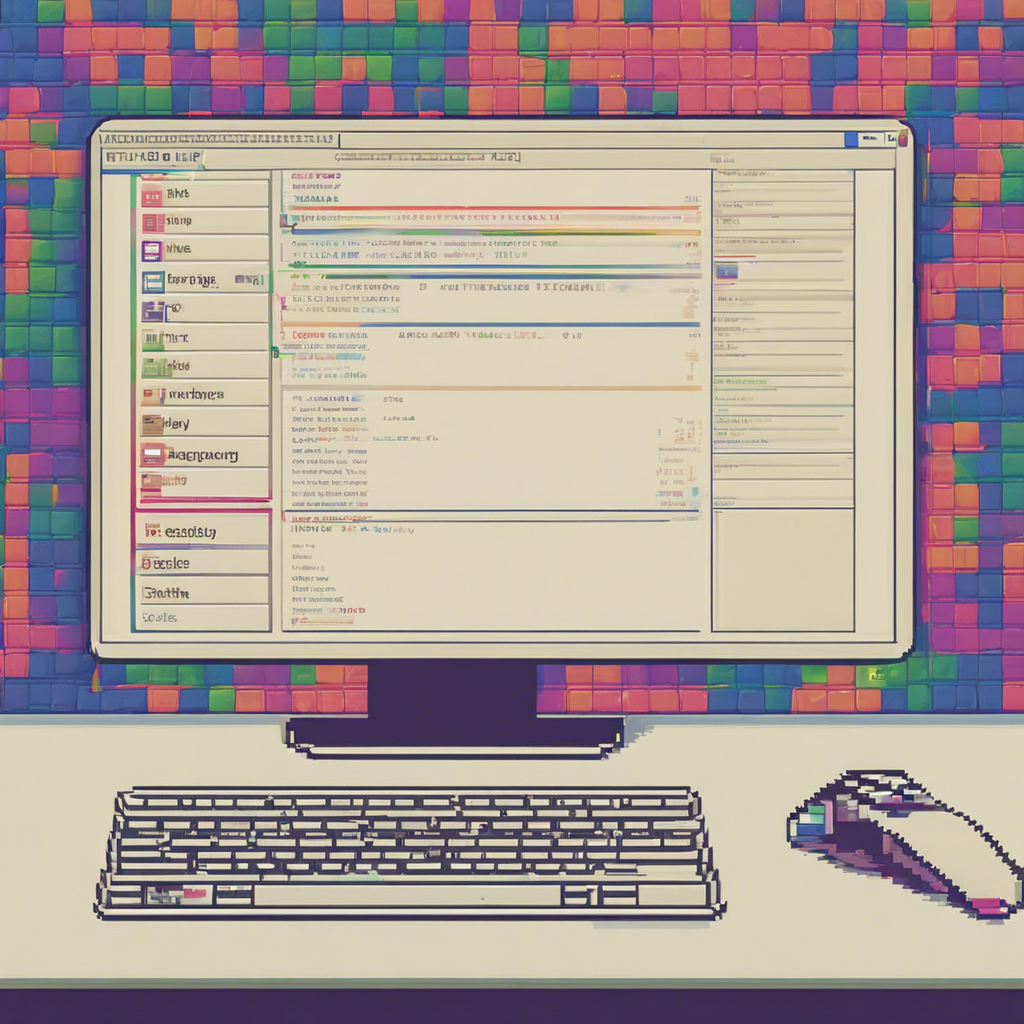
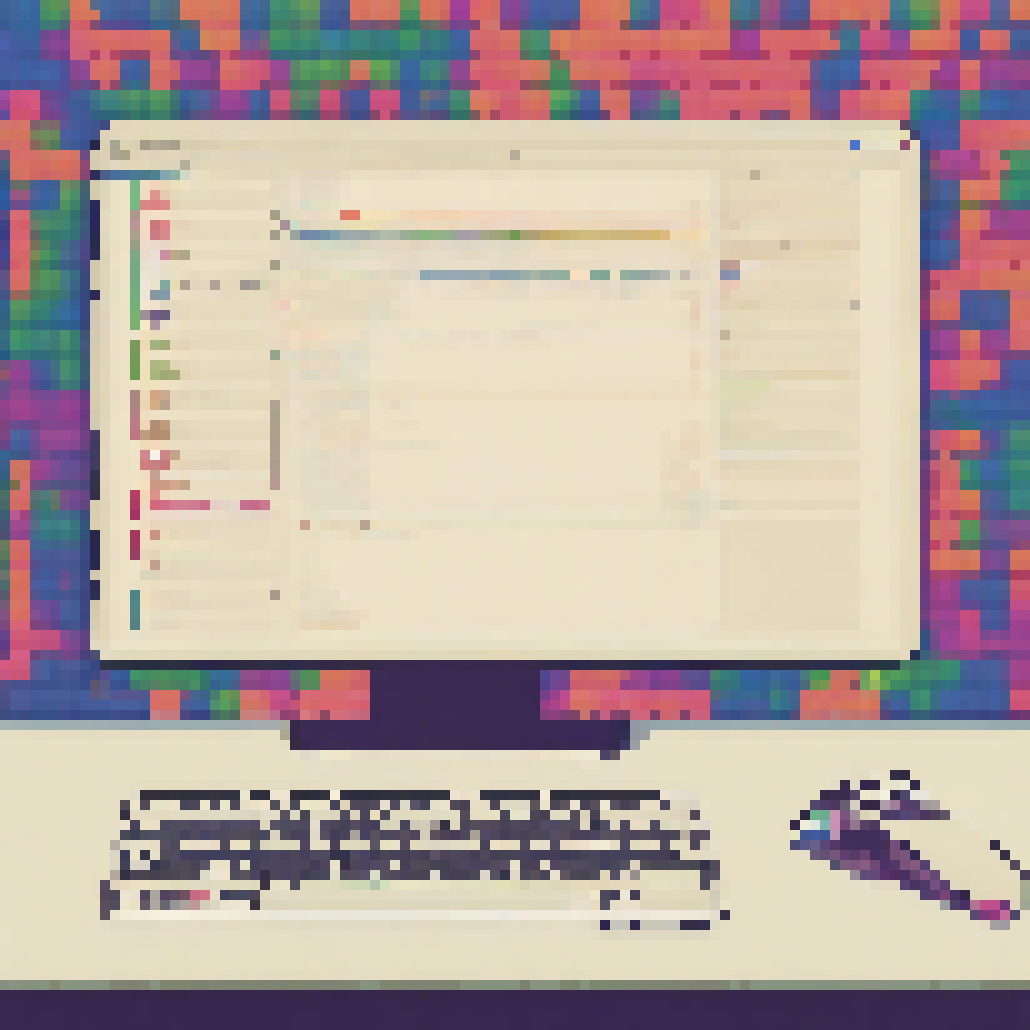
update picture

diff --git a/index.html b/index.html
@@ -129,7 +129,7 @@
             </a>
           </div>
           <div class="project-card">
-            <img src="./assets/images/trajectory_prediction_project.jpg" class="project-image">
+            <img src="./assets/images/trajectory_prediction_project.png" class="project-image">
             <div class="project-card-text-container">
               <div class="subheader-text project-title">Trajectory Prediction</div>
               <div class="body-text project-card-text">Elit pellentesque habitant morbi tristique senectus et netus et. Elementum tempus egestas sed sed risus pretium quam. Nibh ipsum consequat nisl vel pretium</div>
@@ -206,7 +206,7 @@
             </a>
           </div>
           <div class="project-card">
-            <img src="./assets/images/IMAGE_NAME" class="project-image">
+            <img src="./assets/images/acoustic_messanger.png" class="project-image">
             <div class="project-card-text-container">
               <div class="subheader-text project-title">Acoustic Messenger</div>
               <div class="body-text project-card-text">SMALL_PROJECT_DESCRIPTION</div>
@@ -217,7 +217,7 @@
             </a>
           </div>
           <div class="project-card">
-            <img src="./assets/images/IMAGE_NAME" class="project-image">
+            <img src="./assets/images/network_security.png" class="project-image">
             <div class="project-card-text-container">
               <div class="subheader-text project-title">Network Security</div>
               <div class="body-text project-card-text">SMALL_PROJECT_DESCRIPTION</div>
@@ -228,7 +228,7 @@
             </a>
           </div>
           <div class="project-card">
-            <img src="./assets/images/IMAGE_NAME" class="project-image">
+            <img src="./assets/images/Convolutional Coding and the Viterbi Algorithm.png" class="project-image">
             <div class="project-card-text-container">
               <div class="subheader-text project-title">Convolutional Coding and the Viterbi Algorithm</div>
               <div class="body-text project-card-text">SMALL_PROJECT_DESCRIPTION</div>
@@ -239,7 +239,7 @@
             </a>
           </div>
           <div class="project-card">
-            <img src="./assets/images/IMAGE_NAME" class="project-image">
+            <img src="./assets/images/Acoustic Communication System.png" class="project-image">
             <div class="project-card-text-container">
               <div class="subheader-text project-title">Acoustic Communication System</div>
               <div class="body-text project-card-text">SMALL_PROJECT_DESCRIPTION</div>
@@ -250,7 +250,7 @@
             </a>
           </div>
           <div class="project-card">
-            <img src="./assets/images/IMAGE_NAME" class="project-image">
+            <img src="./assets/images/Adaptive Noise Cancellation.png" class="project-image">
             <div class="project-card-text-container">
               <div class="subheader-text project-title"> Adaptive Noise Cancellation</div>
               <div class="body-text project-card-text">SMALL_PROJECT_DESCRIPTION</div>
